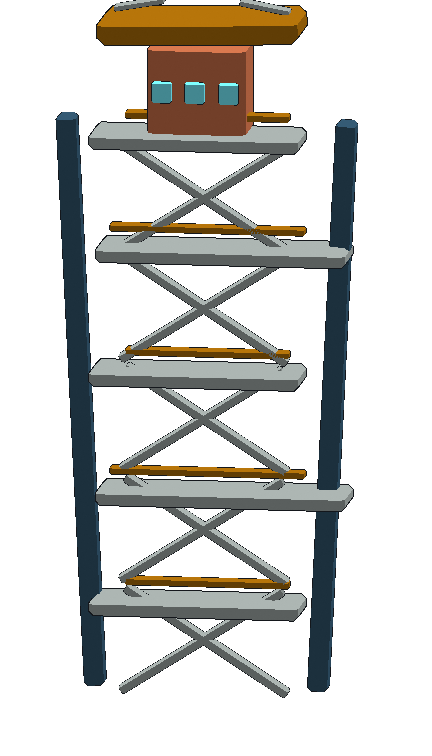
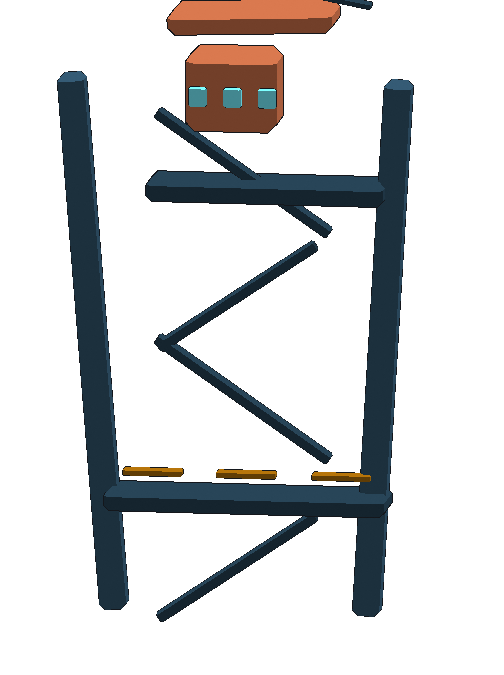
KES-260 correct Earth Base structural palette

diff --git a/web/components/game/screens/LaunchpadScreen.tsx b/web/components/game/screens/LaunchpadScreen.tsx
@@ -96,7 +96,9 @@ export default function LaunchpadScreen({
 
   return (
     <div className="game-screen theme-blueprint ln-scene-launchpad">
-      <TopBar eyebrow="EARTH BASE · LAUNCHPAD" title="Your Program" onBack={onBack} glass francs={francs} />
+      {/* Scene chrome stays crisp over the terrain; the previous `glass` prop
+          created the large frosted rectangle visible across the upper UI. */}
+      <TopBar eyebrow="EARTH BASE · LAUNCHPAD" title="Your Program" onBack={onBack} francs={francs} />
 
       <main data-ui-zone={UI_ZONES.screenContent} className="launchpad-visual-scene earth-base-campus-transition">
         {/* Same Earth Base backdrop the Hub screen uses (KES-233) — this

diff --git a/tools/blender/models/world_modules.py b/tools/blender/models/world_modules.py
@@ -21,13 +21,18 @@ import landnam_kit as kit
 
 T = kit.TOKENS
 INK = T["hull_dark"]
-STEEL = kit.tint(T["steel"], 0.92)
-STEEL_DARK = kit.tint(T["steel"], 0.62)
+# The hub_light palette's `steel` token is intentionally chalk-white for UI
+# accents. It is the wrong material for a building: using it made every deck
+# look like the old white launchpad sticker. Structural steel stays in the
+# terrain's blue-gray hull range; only tiny safety marks use the amber token.
+STEEL = kit.tint(T["hull"], 0.88)
+STEEL_DARK = kit.tint(T["hull_dark"], 0.92)
 RUST = T["rust"]
 SAFETY = kit.tint(T["amber"], 0.78)
 GLASS = T["cyan"]
 GLASS_LIT = T["cyan_bright"]
-ROCK = kit.tint(T["steel"], 0.44)
+ROCK = kit.tint(T["hull"], 0.68)
+ROCK_DARK = kit.tint(T["hull_dark"], 0.76)
 OUTLINE = 0.012
 FINE = 0.006
 
@@ -55,8 +60,11 @@ def cylinder(name, radius, height, location, color, key="site", outline=OUTLINE,
 
 
 def slab(name, w, x=0, z=0, depth=0.9, color=ROCK):
-    box(name, (w, depth, 0.22), (x, 0.04, z), color, "ground", bevel=0.08)
-    box(f"{name}_lip", (w * 0.90, depth * 0.72, 0.07), (x, -0.18, z + 0.22), INK, "ink", bevel=0.02, outline=FINE)
+    # The first pass used a pale concrete slab and read as a white sticker.
+    # Foundations are now dark basalt/steel so the terrain remains the visual
+    # parent and the structure grows out of it.
+    box(name, (w, depth, 0.20), (x, 0.04, z), INK, "ground", bevel=0.08)
+    box(f"{name}_lip", (w * 0.90, depth * 0.72, 0.06), (x, -0.18, z + 0.20), INK, "ink", bevel=0.02, outline=FINE)
 
 
 def pad_foundation():
@@ -76,25 +84,23 @@ def pad_foundation():
 
 
 def pad_tower():
-    """Tapered service tower with offset platforms and bold diagonal braces."""
-    w, h = 4.8, 8.4
-    for x, lean in ((-1.36, -0.05), (1.14, 0.05)):
-        box("tower_leg", (0.22, 0.28, 6.45), (x, 0.06, 0.24), INK, "ink", rotation=(0, lean, 0), bevel=0.04, outline=FINE)
-    for level, z in enumerate((1.1, 2.35, 3.7, 5.1, 6.38)):
-        width = 2.8 if level in (1, 3) else 2.35
-        box("tower_platform", (width, 0.72, 0.18), (-0.08 + (0.18 if level % 2 else -0.12), -0.06, z), STEEL_DARK, "steel", bevel=0.05)
-        beam("tower_guard", -0.08, z + 0.31, width * 0.78, 0, 0.08, SAFETY, "safety")
-    for level in range(5):
-        z = 0.75 + level * 1.25
-        beam("tower_cross", -0.12, z, 2.15, 0.57 if level % 2 else -0.57, 0.10, STEEL, "steel")
-        beam("tower_cross", -0.12, z, 2.15, -0.57 if level % 2 else 0.57, 0.10, STEEL, "steel")
-    box("tower_control", (1.1, 0.72, 1.10), (-0.18, 0.02, 6.48), RUST, "rust", bevel=0.08)
-    for x in (-0.55, -0.18, 0.20):
-        box("tower_window", (0.22, 0.06, 0.24), (x, -0.42, 6.93), GLASS_LIT, "glass", bevel=0.02, outline=FINE)
-    box("tower_crown", (2.25, 0.88, 0.30), (-0.16, 0.04, 7.58), SAFETY, "safety", rotation=(0, -0.03, 0), bevel=0.08)
-    for x in (-0.84, 0.56):
-        beam("tower_aerial", x, 7.95, 0.56, -0.18 if x < 0 else 0.18, 0.06, STEEL, "steel")
-    return spec(w, h, 3.75)
+    """Asymmetric launch gantry with a single service deck, not a stack of white shelves."""
+    w, h = 5.6, 7.5
+    for x, lean in ((-1.55, -0.08), (1.28, 0.06)):
+        box("gantry_leg", (0.30, 0.34, 6.05), (x, 0.06, 0.24), INK, "ink", rotation=(0, lean, 0), bevel=0.06, outline=FINE)
+    # One offset deck and a heavy upper service bridge establish the silhouette.
+    box("gantry_deck", (3.15, 0.70, 0.22), (-0.04, -0.06, 1.42), ROCK_DARK, "steel", bevel=0.06)
+    box("gantry_bridge", (2.65, 0.62, 0.24), (0.18, -0.03, 4.92), STEEL_DARK, "steel", bevel=0.06)
+    for x in (-1.1, -0.05, 1.02):
+        beam("gantry_guard", x, 1.78, 0.66, 0, 0.07, SAFETY, "safety")
+    for level, z in enumerate((0.72, 2.62, 3.78, 5.18)):
+        beam("gantry_cross", -0.12, z, 2.34 if level % 2 else 2.12, 0.60 if level % 2 else -0.60, 0.12, STEEL, "steel")
+    box("gantry_control", (1.02, 0.70, 0.88), (-0.20, 0.01, 5.72), RUST, "rust", bevel=0.10)
+    for x in (-0.55, -0.16, 0.23):
+        box("gantry_window", (0.20, 0.06, 0.22), (x, -0.42, 6.03), GLASS_LIT, "glass", bevel=0.02, outline=FINE)
+    box("gantry_crown", (1.85, 0.78, 0.26), (0.02, 0.04, 6.84), RUST, "rust", rotation=(0, -0.04, 0), bevel=0.08)
+    beam("gantry_aerial", 1.04, 7.18, 0.62, 0.18, 0.06, STEEL, "steel")
+    return spec(w, h, 3.35)
 
 
 def pad_cradle():
@@ -142,18 +148,18 @@ def hangar_foundation():
 
 
 def hangar_shell():
-    """A stepped, asymmetric hangar façade. The bay is built from pieces, not black paint."""
+    """A low, stepped hangar bunker with an open service mouth."""
     w, h = 10.2, 7.4
     box("hangar_spine", (0.86, 0.95, 5.4), (-4.25, 0.06, 0.24), RUST, "rust", bevel=0.08)
-    box("hangar_left_jamb", (0.55, 0.82, 4.55), (-3.22, 0.05, 0.24), STEEL_DARK, "steel", bevel=0.07)
-    box("hangar_right_jamb", (0.58, 0.84, 4.15), (2.62, 0.05, 0.24), STEEL_DARK, "steel", bevel=0.07)
-    box("hangar_right_annex", (2.10, 0.90, 2.65), (3.88, 0.06, 0.24), STEEL, "steel", bevel=0.08)
+    box("hangar_left_jamb", (0.55, 0.82, 4.55), (-3.22, 0.05, 0.24), INK, "ink", bevel=0.07)
+    box("hangar_right_jamb", (0.58, 0.84, 4.15), (2.62, 0.05, 0.24), INK, "ink", bevel=0.07)
+    box("hangar_right_annex", (2.10, 0.90, 2.65), (3.88, 0.06, 0.24), INK, "ink", bevel=0.08)
     box("hangar_annex_roof", (2.40, 1.02, 0.26), (3.80, 0.06, 2.96), INK, "ink", rotation=(0, 0.09, 0), bevel=0.05)
     for x in (3.18, 3.80, 4.42):
         box("hangar_annex_window", (0.27, 0.06, 0.30), (x, -0.46, 1.45), GLASS_LIT, "glass", bevel=0.02, outline=FINE)
     # Overhead segmented door stops short of the floor so the bay has a readable opening.
     for i, (z, width) in enumerate(((4.30, 5.85), (4.62, 5.55), (4.94, 5.16))):
-        box("hangar_door", (width, 0.20, 0.24), (-0.28 + i * 0.05, -0.42, z), STEEL_DARK if i != 1 else STEEL, "steel", bevel=0.04, outline=FINE)
+        box("hangar_door", (width, 0.20, 0.24), (-0.28 + i * 0.05, -0.42, z), INK if i != 1 else RUST, "rust" if i == 1 else "ink", bevel=0.04, outline=FINE)
     return spec(w, h, 3.05)
 
 
